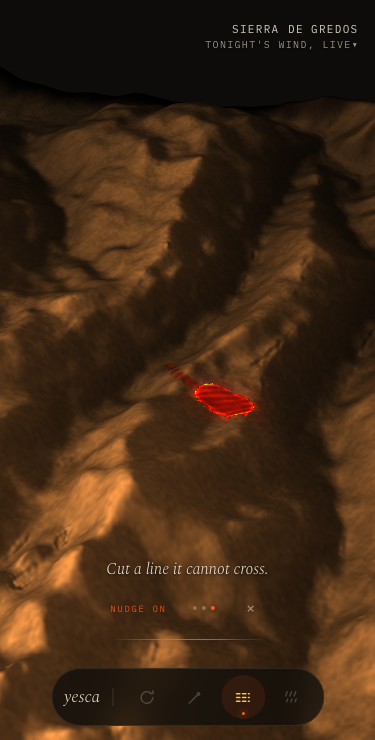
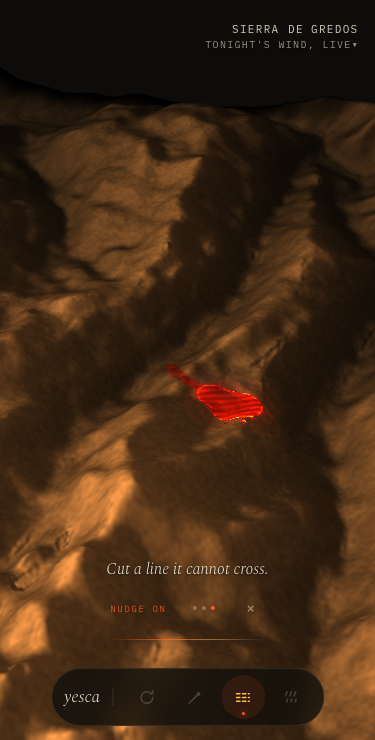
r17: snapshot before cancel, one scorch not a chain of stamps
getComputedStyle returns a live declaration — reading cs.opacity after
cancel() recorded the .out end pose, so every mid-exit reopen still
snapped to 0. Both playExit and reenter now snapshot into strings first;
probe-r16 asserts clipFrom === the seeked live value exactly.

Stamps now densify to 0.42x brush radius and chain across gesture
batches, so a dragged match scores one continuous groove instead of a
chain of discs; the scratch render gets a dim ember seam. Burnt ground
keeps its relief (warm ash floor + sun on ridges) instead of dropping
to a hole, and the flare sinks onto the contact as it dies, handing off
to a wider catch at the point the light lands.

Generated with [Devin](https://devin.ai)

diff --git a/src/engine/Sim.ts b/src/engine/Sim.ts
@@ -255,6 +255,7 @@ export class Sim {
       this.runPass(this.clearMat, rt);
     }
     this.stampQueue.length = 0;
+    this.lastStamp = [null, null, null, null];
     this.time = 0;
     this.acc = 0;
     this.level = 0;
@@ -267,11 +268,41 @@ export class Sim {
     this.gl.setRenderTarget(null);
   }
 
+  /** last stamped uv per mode — consecutive stamp() calls from one gesture
+   *  arrive as separate batches; chaining them fills the seam between the
+   *  previous call's tail and this call's head or every event leaves a gap */
+  private lastStamp: ({ u: number; v: number } | null)[] = [null, null, null, null];
+
   /** queue a brush stroke; mode 0=ignite 1=firebreak 2=rain 3=scratch */
   stamp(mode: 0 | 1 | 2 | 3, points: { u: number; v: number }[], radiusPx: number, strength = 1) {
+    const r = radiusPx / N;
+    const last = this.lastStamp[mode];
+    // bridge to the previous batch when it ends near where this one starts —
+    // a far jump is a new stroke, not a seam
+    const src =
+      last && points.length && Math.hypot(points[0]!.u - last.u, points[0]!.v - last.v) < r * 8
+        ? [last, ...points]
+        : points;
+    // a stroke is one groove, not a chain of discs — fill the gaps so the
+    // spacing stays well under the brush radius and the discs read as a band
+    const maxStep = r * 0.42;
+    const dense: { u: number; v: number }[] = [];
+    for (let i = 0; i < src.length; i++) {
+      const p = src[i]!;
+      const q = src[i + 1];
+      dense.push(p);
+      if (!q) break;
+      const gap = Math.hypot(q.u - p.u, q.v - p.v);
+      const n = Math.ceil(gap / maxStep);
+      for (let k = 1; k < n; k++) {
+        const t = k / n;
+        dense.push({ u: p.u + (q.u - p.u) * t, v: p.v + (q.v - p.v) * t });
+      }
+    }
+    if (points.length) this.lastStamp[mode] = points[points.length - 1]!;
     // a stroke longer than one batch is split, not strided — every point lands
-    for (let i = 0; i < points.length; i += 64) {
-      const pts = points
+    for (let i = 0; i < dense.length; i += 64) {
+      const pts = dense
         .slice(i, i + 64)
         .map((p) => new THREE.Vector4(p.u, p.v, radiusPx / N, strength));
       if (pts.length) this.stampQueue.push({ mode, pts });

diff --git a/src/lib/exit.ts b/src/lib/exit.ts
@@ -18,13 +18,17 @@ const reduced = () => matchMedia("(prefers-reduced-motion: reduce)").matches;
 export function playExit(el: HTMLElement | null, ms: number, toTransform?: string) {
   if (!el) return;
   // read before cancelling — if an enter clip is mid-flight its live value
-  // is what is on screen, and the exit must start there
+  // is what is on screen, and the exit must start there. getComputedStyle
+  // returns a LIVE declaration: snapshot into strings before cancel(), or the
+  // keyframe records the .out end pose it just caused
   const cs = getComputedStyle(el);
+  const opacity = cs.opacity;
+  const transform = cs.transform;
   clips.get(el)?.a.cancel();
   const a = el.animate(
     [
-      { opacity: cs.opacity, transform: cs.transform },
-      { opacity: "0", transform: toTransform ?? cs.transform },
+      { opacity, transform },
+      { opacity: "0", transform: toTransform ?? transform },
     ],
     { duration: reduced() ? 1 : ms, easing: easeOut, fill: "forwards" },
   );
@@ -35,11 +39,15 @@ export function reenter(el: HTMLElement | null, ms: number, restTransform = "non
   if (!el) return;
   const prev = clips.get(el);
   if (!prev) return; // nothing in flight — the CSS entrance is already honest
-  const cs = getComputedStyle(el); // the exit clip's live value
+  // the declaration is live — snapshot before cancel() or the keyframe
+  // stores the .out end pose the cancel just revealed
+  const cs = getComputedStyle(el);
+  const opacity = cs.opacity;
+  const transform = cs.transform;
   prev.a.cancel();
   const a = el.animate(
     [
-      { opacity: cs.opacity, transform: cs.transform },
+      { opacity, transform },
       { opacity: "1", transform: restTransform },
     ],
     { duration: reduced() ? 1 : ms, easing: easeOut, fill: "forwards" },

diff --git a/src/engine/shaders.ts b/src/engine/shaders.ts
@@ -240,10 +240,11 @@ void main() {
   float cut = (1.0 - smoothstep(0.05, 0.25, fu.r)) * step(0.5, fu.g);
   col = mix(col, uChar * 0.55, cut * 0.85);
 
-  // match scratch: a dark groove scored into the land, glinting like struck flint
+  // match scratch: one scored groove — a dark seam the whole length, with a
+  // dim ember bed running inside it and flicker on top, not loose sparks
   float scratch = clamp(fu.b, 0.0, 1.0);
-  vec3 ground = mix(col, uChar * 0.6, scratch * 0.62);
-  ground += uEmber * scratch * vnoise(vUv * 260.0 + uTime * 2.2) * 0.34;
+  vec3 ground = mix(col, uChar * 0.55, scratch * 0.7);
+  ground += uEmber * scratch * (0.16 + 0.28 * vnoise(vUv * 260.0 + uTime * 2.2));
   col = ground;
 
   // burn states — feathered rim via neighbourhood taps, not a sawtooth edge
@@ -253,10 +254,11 @@ void main() {
   nb += step(1.5, texture(uState, fuv + vec2(0.0, uTexel.y * 2.5)).r);
   nb += step(1.5, texture(uState, fuv - vec2(0.0, uTexel.y * 2.5)).r);
   if (st.r > 1.5) {
-    // burnt: char with ash mottling, cooling embers
+    // burnt: char that keeps the relief — a warm ash floor so shade never
+    // drops to a hole, and the ridges still catch the raking sun
     float mot = vnoise(vUv * 46.0 + vec2(hash(floor(vUv * 8.0)), hash(floor(vUv * 8.0) + 19.7)) * 9.0);
-    vec3 c = mix(uChar, uAsh, smoothstep(0.45, 0.8, mot) * 0.35);
-    vec3 burnCol = c * (0.25 + 0.45 * dif);
+    vec3 c = mix(uChar, uAsh, smoothstep(0.4, 0.8, mot) * 0.5);
+    vec3 burnCol = c * vec3(1.08, 0.95, 0.84) * (0.30 + 0.30 * sky + 1.0 * pow(dif, 1.2));
     float mask = smoothstep(0.1, 0.9, (nb + 1.0) / 5.0);
     col = mix(col, burnCol, mask);
     // fresh char radiates along the rim for a few sim-seconds

diff --git a/src/App.tsx b/src/App.tsx
@@ -602,6 +602,11 @@ export default function App() {
         const wp = stage.worldAt(last.u, last.v);
         fx.strike(stroke.slice(-48), sim.wind);
         fx.flareAt(wp);
+        // as the flare sinks onto the contact it hands off to a wider
+        // ignition — the catch blooms from where the light landed
+        setTimeout(() => {
+          if (readyRef.current?.sim === sim) sim.stamp(0, [last], 16);
+        }, 150);
         if (!reduced.current) stage.nudgeFocus(wp);
         crackleRef.current.strike();
         nudge();
@@ -680,6 +685,11 @@ export default function App() {
           const c = hit ? { u: hit.u, v: hit.v } : { u: 0.5, v: 0.5 };
           if (t === "match") {
             r.sim.stamp(0, [c], 11);
+            // the flare dies into the contact — a second, wider catch lands
+            // as the light collapses
+            setTimeout(() => {
+              if (readyRef.current?.sim === r.sim) r.sim.stamp(0, [c], 16);
+            }, 150);
             if (hit) {
               r.fx.flareAt(hit.point);
               if (!reduced.current) r.stage.nudgeFocus(hit.point);

diff --git a/src/engine/FX.ts b/src/engine/FX.ts
@@ -175,8 +175,11 @@ export class FX {
     info.needsUpdate = true;
   }
 
+  private flareBase = new THREE.Vector3();
+
   /** the moment a match catches */
   flareAt(point: THREE.Vector3) {
+    this.flareBase.copy(point);
     this.flare.position.copy(point);
     this.flare.position.y += this.stage.sceneMeters * 0.012;
     this.flareT = 0;
@@ -233,6 +236,10 @@ export class FX {
       this.flareT = Math.min(1, this.flareT + dt / 0.55);
       const s = this.stage.sceneMeters * 0.02 * (0.4 + this.flareT * 2.2);
       this.flare.scale.set(s, s, 1);
+      // the light sinks onto the contact as it dies — it lands where the
+      // fire front is already running, not above it
+      this.flare.position.copy(this.flareBase);
+      this.flare.position.y += this.stage.sceneMeters * 0.012 * (1 - this.flareT * 0.75);
       // a hard white core for the first ~70ms, then the amber bloom
       this.flareMat.opacity = this.flareT < 0.13 ? 1.0 : (1 - this.flareT) * 0.9;
       if (this.flareT >= 1) this.flare.visible = false;
